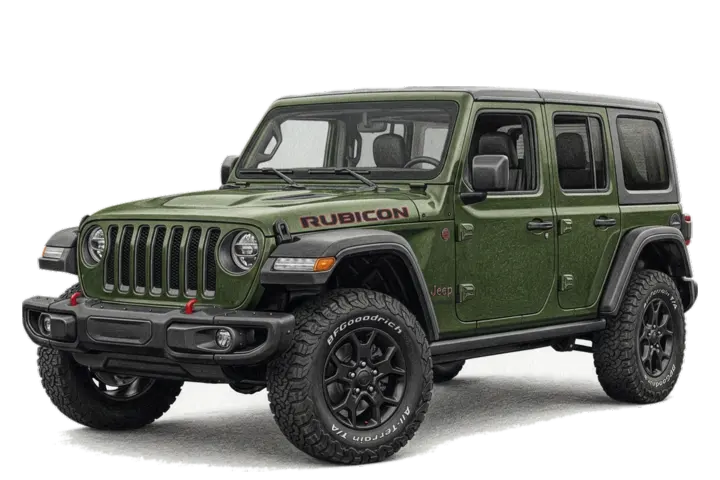
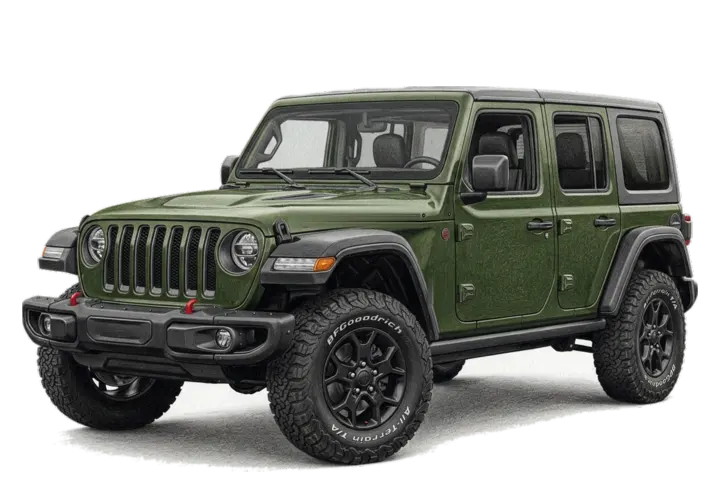
v0.21.1 — с рисунка внедорожника убраны надписи марок

Changed region(s): [[0.3972, 0.4062, 0.5806, 0.5], [0.5806, 0.5938, 0.6417, 0.625]]

diff --git a/docs/RELEASE-0.21.1.md b/docs/RELEASE-0.21.1.md
@@ -25,6 +25,10 @@
      по силуэту и деталям.
    - Техника — цветной карандаш: графитовая штриховка и растушёвка сохранены,
      добавлены цвет кузова, кожа салона, хром, тонировка и цветные суппорты.
+   - На самих рисунках нет читаемых надписей с названиями марок: с
+     внедорожника убраны буквы «RUBICON» на капоте и «Jeep» на борту (места
+     закрашены той же графитовой штриховкой), остальные надписи на кузовах
+     неразборчивы в размере витрины.
    - Цвета подобраны под характер: серебристо-голубой флагман, синий
      спортивный седан, чёрный квадратный внедорожник, чёрно-золотой
      двухцветный лимузин, зелёный парадный лимузин, зелёный суперкар,
@@ -48,9 +52,11 @@
    - `car-lambo` → **Бык** — зелёный суперкар-клин с антикрылом.
    - `car-bugatti` → **Молния** — голубой гиперкар с подковой решётки.
    - Под рисунком — только характер машины («Флагманский седан», «Гоночный
-     болид»…) и пометка «рисунок цветным карандашом». Точных марок и моделей
-     в названиях, описаниях, подписях и alt нет; технические `id` не менялись,
-     чтобы не ломать профили, вишлист и файлы картинок.
+     болид»…) и пометка «рисунок цветным карандашом»; в подробной карточке
+     второй строкой идёт, чем машина узнаётся (детали кузова, а не логотип).
+     Точных марок и моделей в названиях, описаниях, подписях и alt нет;
+     технические `id` не менялись, чтобы не ломать профили, вишлист и файлы
+     картинок.
    - В `tests/shop-tuning.test.ts` добавлена проверка: названия и описания
      десяти машин не содержат брендов, а порядок имён закреплён.
 
